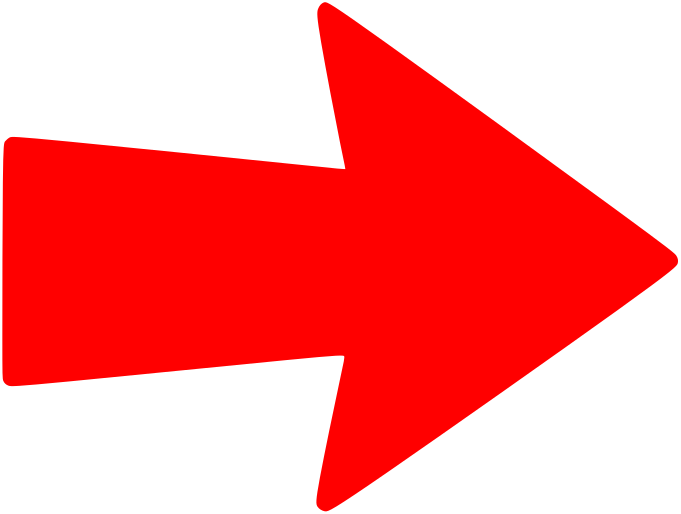
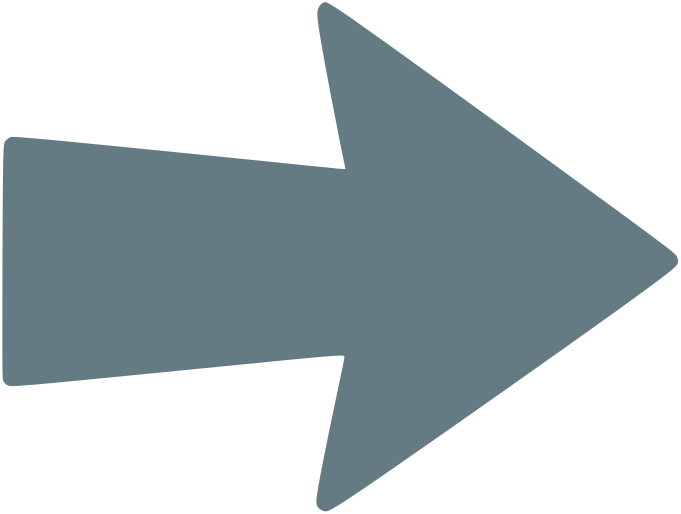
Nits 3

diff --git a/manim/anims.py b/manim/anims.py
@@ -3,6 +3,8 @@ from utils.util import *
 
 # TODO jiny pozadi
 
+HIGHLIGHT = ORANGE2
+
 
 class Intro(MovingCameraScene):
     def construct(self):
@@ -230,13 +232,13 @@ class Intro(MovingCameraScene):
 
         # So now it’s even coconut that won. These two monkeys are pretty sly. They really don’t like banana. They also realized that their favorite, avocado, cannot win against banana in the second round. So, they rather voted for coconut because that’s their second choice.
 
-        rec_four = SurroundingRectangle(Group(*monkeys_img[:4]), color=RED)
+        rec_four = SurroundingRectangle(Group(*monkeys_img[:4]), color=HIGHLIGHT)
         rec = rec_four.copy()
         self.play(FadeIn(rec))
         self.wait()
 
         rec_other = [
-            SurroundingRectangle(orderings[0][1][i], color=RED) for i in range(3)
+            SurroundingRectangle(orderings[0][1][i], color=HIGHLIGHT) for i in range(3)
         ]
         self.play(Transform(rec, rec_other[2]))
         self.wait()
@@ -354,7 +356,7 @@ class Statement1(Scene):
 
         # First, we need to define what a voting system is.
 
-        border = SurroundingRectangle(gs_tex[2], color=RED)
+        border = SurroundingRectangle(gs_tex[2], color=HIGHLIGHT)
         self.play(FadeIn(border))
         self.wait()
 
@@ -447,7 +449,7 @@ class Statement1(Scene):
         self.play(FadeIn(Group(lines, quest_tex)))
         self.wait()
 
-        table = VotingTable(["AB"]).align_to(lines, RIGHT).scale(1.5)
+        table = VotingTable(["AB"]).scale(1.5).move_to(lines).align_to(lines, RIGHT)
 
         comparison = (
             VGroup(
@@ -475,7 +477,7 @@ class Statement2(Scene):
 
         # gs_tex[2].set_color(GREEN),
         self.add(gs_tex)
-        border = SurroundingRectangle(gs_tex[4], color=RED)
+        border = SurroundingRectangle(gs_tex[4], color=HIGHLIGHT)
         self.play(FadeIn(border))
         self.wait()
 
@@ -500,7 +502,7 @@ class Statement2(Scene):
         self.play(FadeIn(table))
         self.wait()
 
-        voter_border = SurroundingRectangle(monkeys_img[i_voter], color=RED)
+        voter_border = SurroundingRectangle(monkeys_img[i_voter], color=HIGHLIGHT)
         self.play(FadeIn(voter_border))
         self.wait()
 
@@ -578,7 +580,7 @@ class Statement2(Scene):
         self.wait()
 
         ar = (
-            ImageMobject("img/arrow.png")
+            load_svg("img/arrow.svg")
             .scale_to_fit_width(1)
             .next_to(order.group[0], LEFT)
         )
@@ -603,10 +605,10 @@ class Statement2(Scene):
 
         # What’s important, our voter actually prefers Z over Y, so it pays off to submit this dishonest ballot. Whenever this happens, we say that the voter is incentivized to vote strategically.
 
-        # self.play(Circumscribe(order, color=RED))
+        # self.play(Circumscribe(order, color=HIGHLIGHT))
         # self.wait()
 
-        border2 = SurroundingRectangle(gs_tex[3], color=RED)
+        border2 = SurroundingRectangle(gs_tex[3], color=HIGHLIGHT)
         self.play(
             *[FadeOut(o) for o in self.mobjects if o != gs_tex and o != border],
         )
@@ -627,14 +629,14 @@ class Statement2(Scene):
 
         # So the definition is a bit different than what happened earlier because there, the whole group of monkeys coordinated. Also, the theorem is not saying that in every possible scenario, there is somebody who has this incentive. But, for any reasonable voting system we can find at least one scenario where strategic voting occurs.
 
-        # self.play(Circumscribe(gs_tex[3], color=RED), run_time=2)
+        # self.play(Circumscribe(gs_tex[3], color=HIGHLIGHT), run_time=2)
         # self.wait()
         # self.play(gs_tex[3].animate.set_color(GREEN))
         # self.wait()
 
         # And this brings us to the word “reasonable”. The problem is: Think of the dictatorship voting system where the winner is always the top preference of voter number 3. By that I mean that system always outputs the fruit in the highlighted square. This voting system actually satisfies our definition of a voting system. Also, you can check that there is no scenario in which strategic voting helps anybody.
 
-        border2 = SurroundingRectangle(gs_tex[1], color=RED)
+        border2 = SurroundingRectangle(gs_tex[1], color=HIGHLIGHT)
         self.play(Transform(border, border2))
         self.wait()
 
@@ -655,7 +657,7 @@ class Statement2(Scene):
         self.play(FadeIn(dictator))
         self.wait()
 
-        border_fruit = SurroundingRectangle(table[2].group[0], color=RED)
+        border_fruit = SurroundingRectangle(table[2].group[0], color=HIGHLIGHT)
         self.play(FadeIn(border_fruit))
         self.wait()
         self.play(table.results_show("A"))
@@ -928,7 +930,7 @@ class Proof2(MovingCameraScene):
         self.next_section(skip_animations=False)
         # Remember, our goal is to demonstrate that for any reasonable voting system, there exists a scenario where a certain voter has an incentive to vote strategically. It turns out that any Condorcet cycle is almost, but not quite, such a scenario.
 
-        self.play(Circumscribe(gs_tex, color=RED))
+        self.play(Circumscribe(gs_tex, color=HIGHLIGHT))
         self.wait()
 
         tables = VGroup(*[VotingTable(str).shift(LEFT) for str in proof_table_strings])
@@ -947,7 +949,7 @@ class Proof2(MovingCameraScene):
 
         # But now let’s look at this group of voters for whom the coconut is the bottom choice. Intuitively, these voters have the biggest incentive to try some kind of strategic voting because they are most unhappy with the result.
 
-        border = SurroundingRectangle(Group(*table[:4]), color=RED)
+        border = SurroundingRectangle(Group(*table[:4]), color=HIGHLIGHT)
         self.play(FadeIn(border))
         self.wait()
 
@@ -964,7 +966,7 @@ class Proof2(MovingCameraScene):
 
         border.generate_target()
         border.target = SurroundingRectangle(
-            Group(table[0].group[1], table[5].group[0]), color=RED
+            Group(table[0].group[1], table[5].group[0]), color=HIGHLIGHT
         )
         border.save_state()
 
@@ -1000,7 +1002,7 @@ class Proof2(MovingCameraScene):
         # So, if all of these voters coordinate and vote strategically, they can achieve a result that they like more than what happens when they tell the truth. This is by the way exactly what the four sly monkeys did at the beginning when we tried to use the two-round system to elect the winner.
         # We are already very close to proving the theorem. The only problem is that we want to find a scenario where only one voter has the incentive to vote strategically. Right now, that is not the case. Only if this whole group can coordinate, it pays off.
 
-        self.play(Indicate(border, color=RED))
+        self.play(Indicate(border, color=HIGHLIGHT))
         self.wait()
 
         self.play(FadeOut(border), FadeOut(gs_tex))
@@ -1015,11 +1017,16 @@ class Proof2(MovingCameraScene):
         tables.arrange(DOWN, buff=0.5)
         tables.move_to(ORIGIN)
 
-        self.play(Transform(table, tables[0]))
-        # self.play(Circumscribe(Group(table[0].group[0], table[5].group[1]), color=RED))
+        scale = 2.5
+        self.play(
+            Transform(table, tables[0]),
+            self.camera.frame.animate.scale(1 / scale).move_to(tables[0:2]),
+        )
+        # self.play(Circumscribe(Group(table[0].group[0], table[5].group[1]), color=HIGHLIGHT))
         self.wait()
 
         for i, table in enumerate(tables[:-1]):
+            self.play(self.camera.frame.animate.move_to(tables[i : i + 2]))
             self.add(tables[i])
             table = tables[i].copy()
             self.play(table.animate.next_to(tables[i], DOWN, buff=MED_LARGE_BUFF))
@@ -1028,6 +1035,7 @@ class Proof2(MovingCameraScene):
             # self.play(table.animate.shift(shift), tables[: i + 1].animate.shift(shift))
             self.remove(table)
 
+        self.play(self.camera.frame.animate.move_to(tables).scale(scale))
         self.play(
             tables[0].winner_show("C"),
         )
@@ -1038,7 +1046,7 @@ class Proof2(MovingCameraScene):
         self.wait()
 
         self.add(tables[0].results)
-        self.play(Circumscribe(tables[0], color=RED))
+        self.play(Circumscribe(tables[0], color=HIGHLIGHT))
         self.wait()
 
         self.play(*[t.winner_show("?") for t in tables[1:-1]])
@@ -1057,7 +1065,7 @@ class Proof2(MovingCameraScene):
 
         # So let’s look at the two scenarios where the winner changes for the first time, from the coconut to some other candidate.
 
-        border = SurroundingRectangle(Group(*tables[2:4]), color=RED)
+        border = SurroundingRectangle(Group(*tables[2:4]), color=HIGHLIGHT)
 
         self.play(FadeIn(border))
         self.wait()
@@ -1074,7 +1082,9 @@ class Proof2(MovingCameraScene):
         self.remove(*self.mobjects)
 
         border.generate_target()
-        border.target = SurroundingRectangle(Group(*tables.target[2:4]), color=RED)
+        border.target = SurroundingRectangle(
+            Group(*tables.target[2:4]), color=HIGHLIGHT
+        )
 
         winner_groups = []
         for i in range(5):
@@ -1099,8 +1109,8 @@ class Proof2(MovingCameraScene):
         self.play(FadeOut(border))
 
         borders = [
-            SurroundingRectangle(tables[2][2], color=RED),
-            SurroundingRectangle(tables[3][2], color=RED),
+            SurroundingRectangle(tables[2][2], color=HIGHLIGHT),
+            SurroundingRectangle(tables[3][2], color=HIGHLIGHT),
         ]
 
         self.play(FadeIn(Group(*borders)))
@@ -1137,7 +1147,7 @@ class Proof2(MovingCameraScene):
         )
         self.wait()
 
-        self.play(Circumscribe(tables[2].results.winner, color=RED))
+        self.play(Circumscribe(tables[2].results.winner, color=HIGHLIGHT))
         self.wait()
 
         bubble2 = (
@@ -1158,10 +1168,10 @@ class Proof2(MovingCameraScene):
         )
         self.wait()
 
-        self.play(Circumscribe(tables[3].results.winner, color=RED))
+        self.play(Circumscribe(tables[3].results.winner, color=HIGHLIGHT))
         self.wait()
 
-        self.play(Circumscribe(tables[2], color=RED))
+        self.play(Circumscribe(tables[2], color=HIGHLIGHT))
         self.wait()
 
         # Let’s also focus on this voter. Do you see how to finish the proof? Well, let’s imagine that the top scenario contains the honest preferences of all the voters. If this voter votes honestly, X is the winner. But what if they vote strategically and cast a ballot with ZYX instead of YZX? Well, we know that then the outcome of the voting system changes from X to some other candidate. But look, X is the worst option for our voter, so whatever the change, the voter will prefer it!
@@ -1249,7 +1259,7 @@ class Reasonable(Scene):
         )  # line.animate.next_to(gs_new_tex, DOWN))
         self.wait()
 
-        self.play(Circumscribe(Group(*gs_new_tex[1:3]), color=RED))
+        self.play(Circumscribe(Group(*gs_new_tex[1:3]), color=HIGHLIGHT))
         self.wait()
 
         self.play(FadeOut(gs_new_tex))
@@ -1386,8 +1396,8 @@ class ArrowThm(Scene):
 
         # For me, the biggest insight of those two theorems is simply noticing that there is something to prove. Strategic voting is not just a sociological fact, but it is a fundamental flaw of every voting system, and so is the lack of independence of irrelevant alternatives. Or is it?
 
-        border = SurroundingRectangle(gs_tex[4], color=RED)
-        border2 = SurroundingRectangle(arrow_tex[1], color=RED)
+        border = SurroundingRectangle(gs_tex[4], color=HIGHLIGHT)
+        border2 = SurroundingRectangle(arrow_tex[1], color=HIGHLIGHT)
 
         self.play(FadeIn(border))
         self.wait()
@@ -1767,7 +1777,7 @@ class Approval(Scene):
 
         i_like = 3
 
-        self.play(videos_group[i_like][1].animate.set_color(RED))
+        self.play(videos_group[i_like][1].animate.set_color(HIGHLIGHT))
         self.wait()
 
         self.play(
@@ -1897,7 +1907,7 @@ class Debriefing(Scene):
         )
         self.wait()
 
-        self.play(Circumscribe(Group(*voting_data[1][0:2]), color=RED))
+        self.play(Circumscribe(Group(*voting_data[1][0:2]), color=HIGHLIGHT))
         self.wait()
 
         # You might be wondering, "Okay, but which voting system did they use to compile this list?" and it was, well, approval voting itself… [reveal the right column of the table - approval votes for each option].
@@ -1916,13 +1926,13 @@ class Debriefing(Scene):
         self.play(
             Circumscribe(
                 Group(*[voting_data[i][2] for i in range(1, len(voting_data))]),
-                color=RED,
+                color=HIGHLIGHT,
             )
         )
         self.wait()
 
         arrow = (
-            ImageMobject("img/arrow.png")
+            load_svg("img/arrow.svg")
             .scale_to_fit_width(1.5)
             .next_to(voting_data[1][0], LEFT, buff=0.5)
         )
